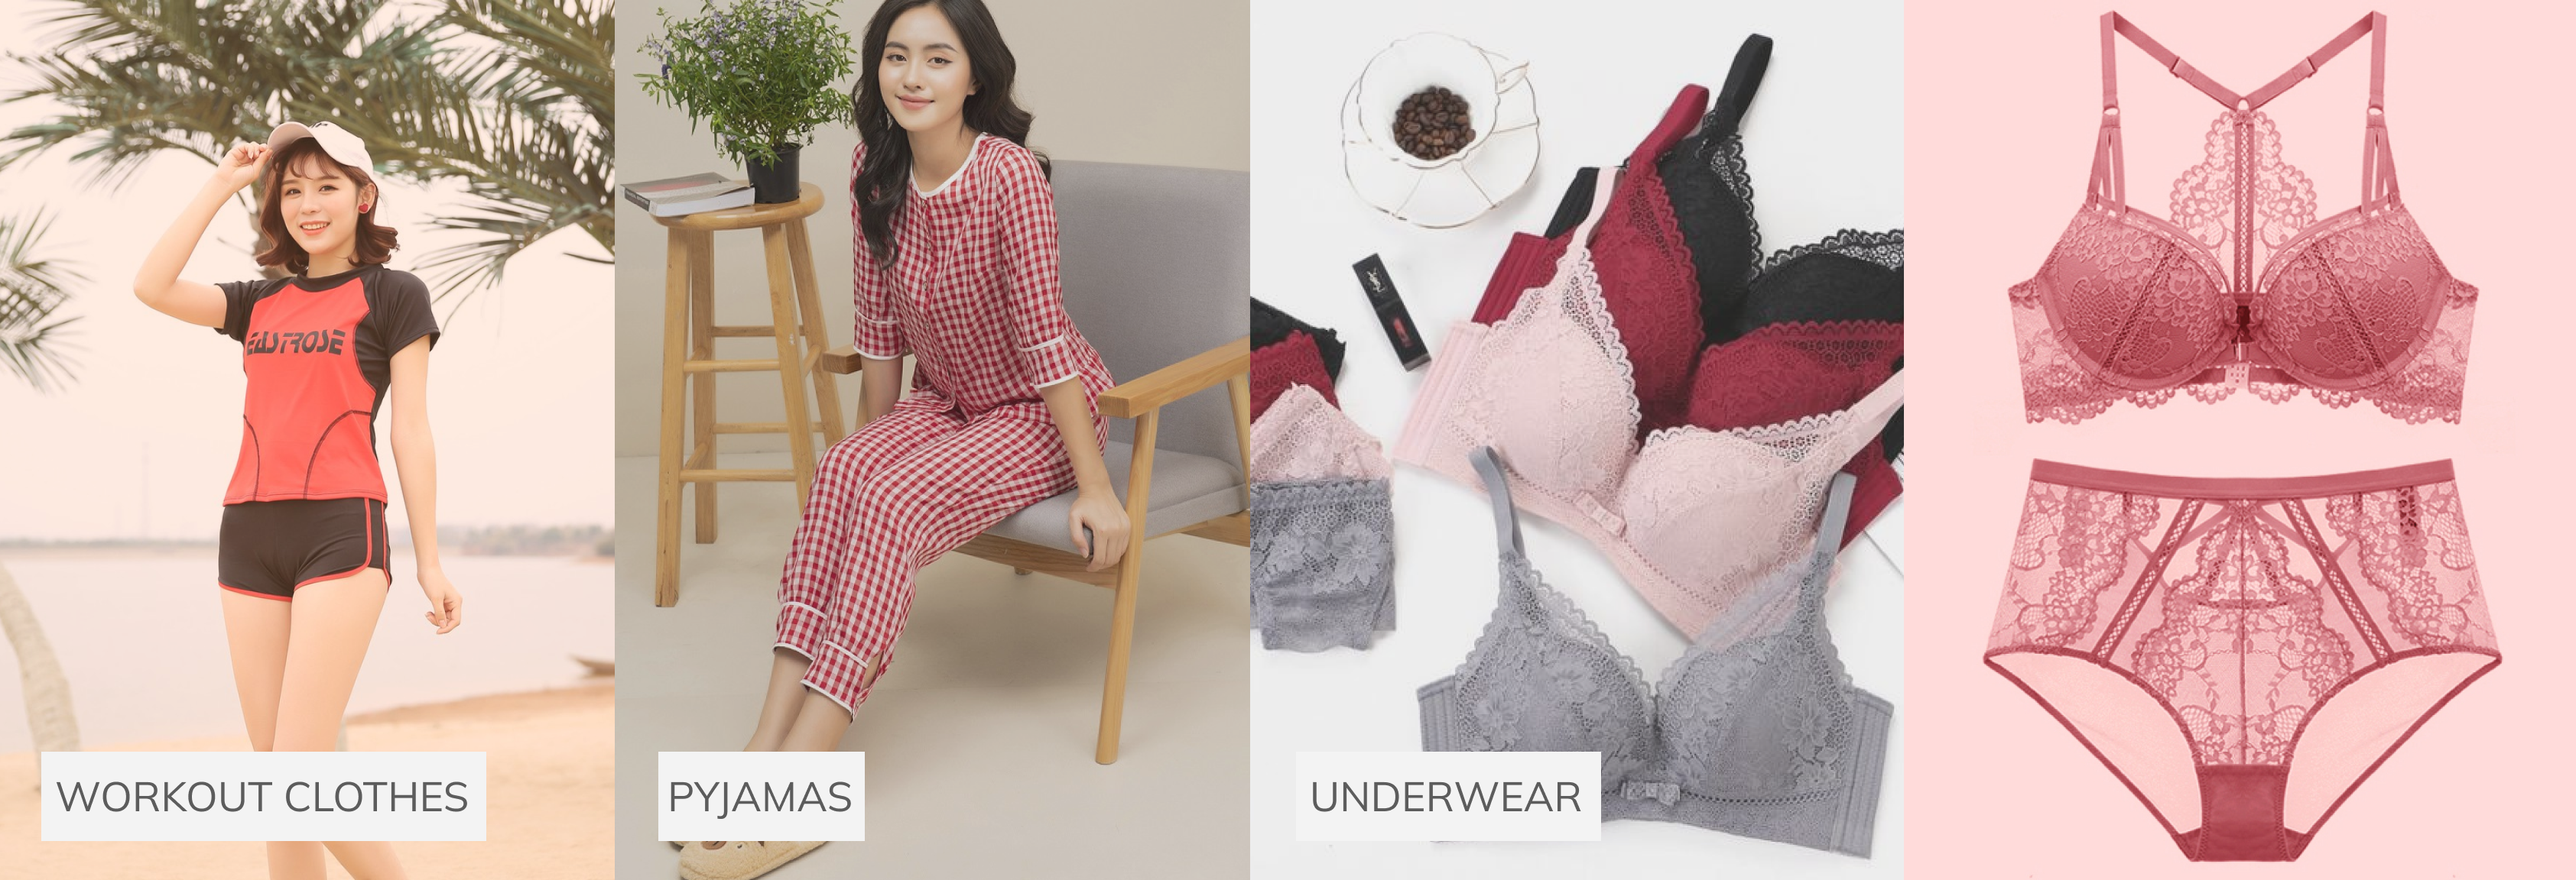
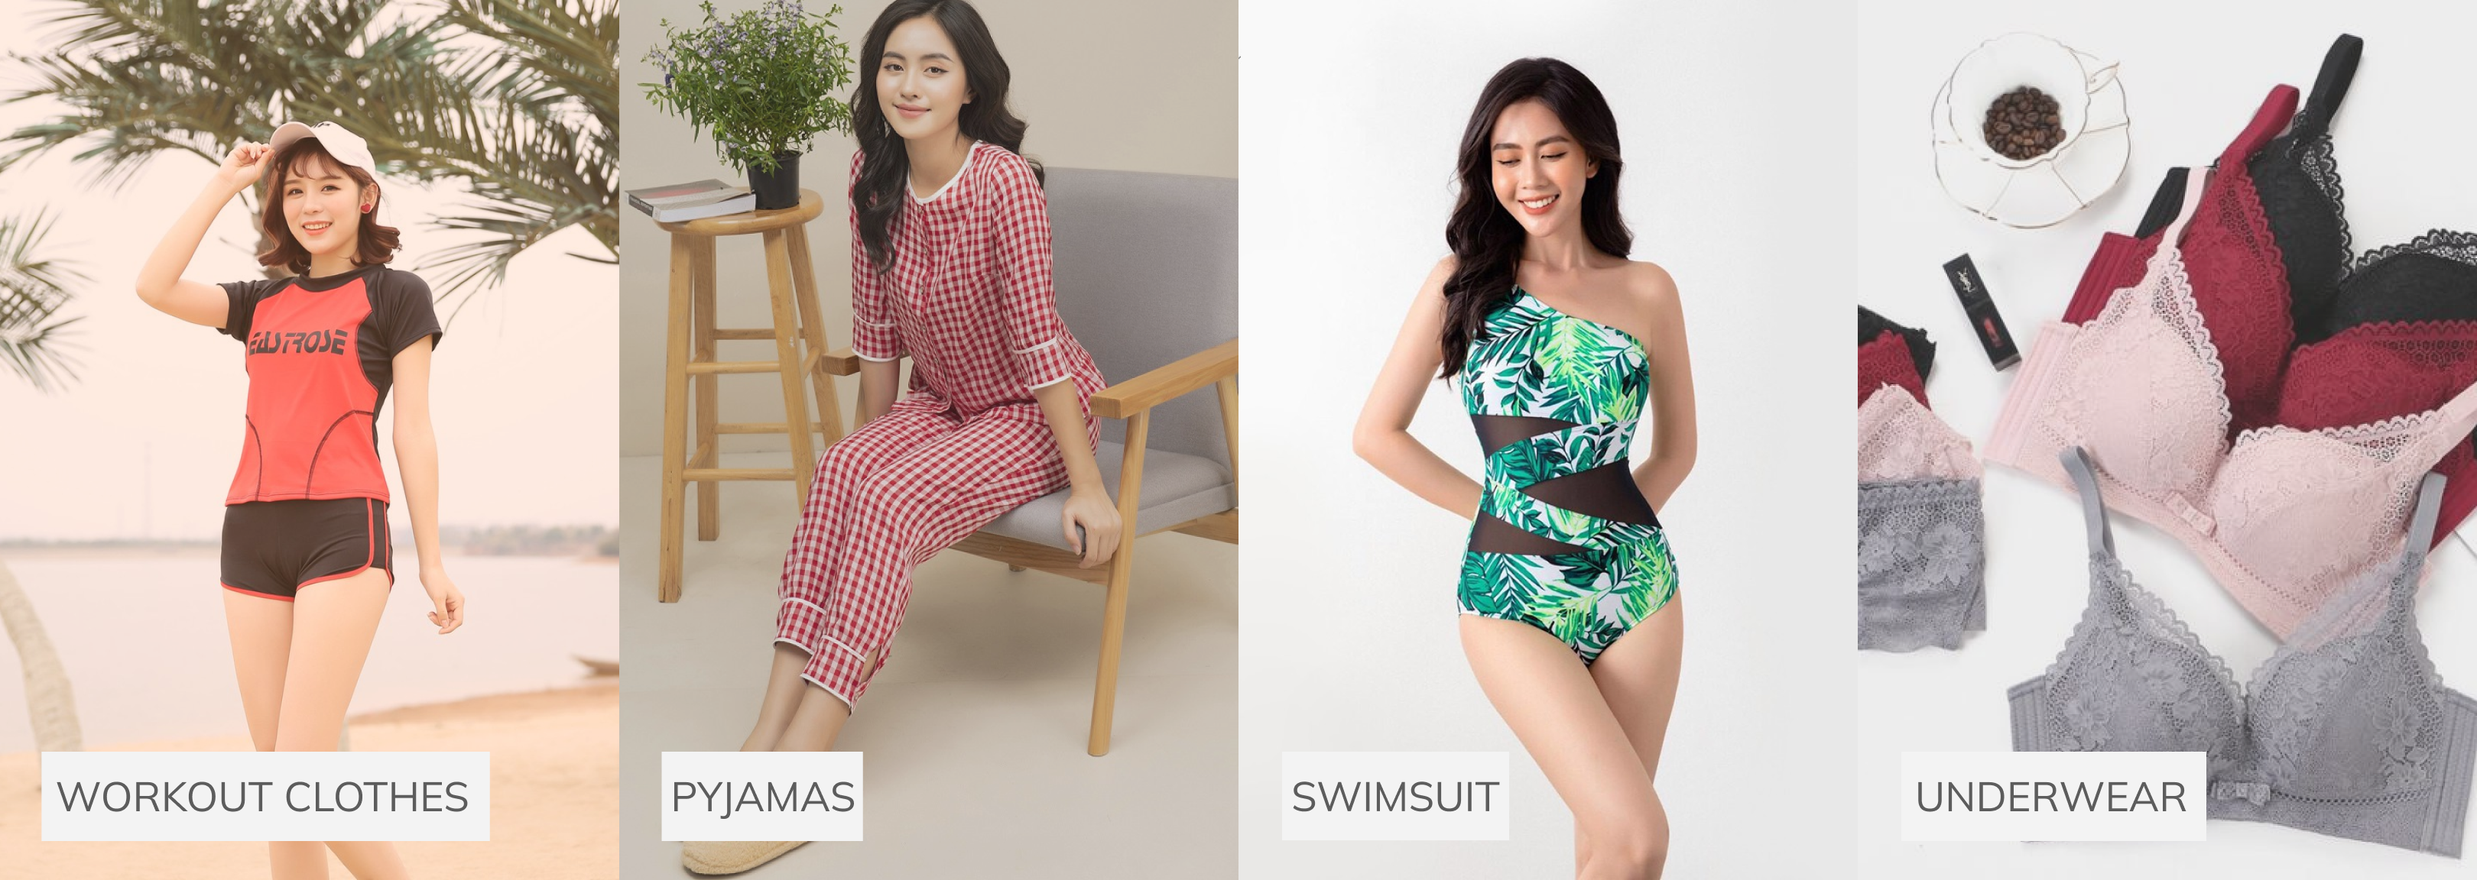
Update product page

diff --git a/pages/products/index.vue b/pages/products/index.vue
@@ -51,6 +51,16 @@
           </el-col>
         </el-row>
         <div class="tu-content title-line-l">Protective Clothing</div>
+        <el-row type="flex" justify="center">
+          <el-col :xs="24" :sm="22" :md="16" :lg="14">
+            <p class="text-center">
+              There are many varieties of protective clothing available for
+              specific hazards. Examples of the body/skin protection include
+              laboratory coats, coveralls, vests, jackets, aprons, surgical
+              gowns and full body suits.
+            </p>
+          </el-col>
+        </el-row>
         <div class="tu-content">
           <TuImage
             :src="
@@ -59,6 +69,10 @@
           />
         </div>
         <div class="tu-content title-line-l">Assessories</div>
+        <p class="text-center">
+          Accessories that are worn may include cravats, gloves, shawls, scarves,
+          lanyards, socks and stockings.
+        </p>
         <div class="tu-content">
           <TuImage
             :src="
@@ -116,10 +130,10 @@ export default {
       color: #fff;
       text-transform: uppercase;
       font-size: 13px;
-      padding: 6px 16px;
+      padding: 10px 16px 6px 16px;
       background: #363636;
       border-radius: 2px;
-      transition: transform .2s;
+      transition: transform 0.2s;
       &:hover {
         background: #707070;
       }
